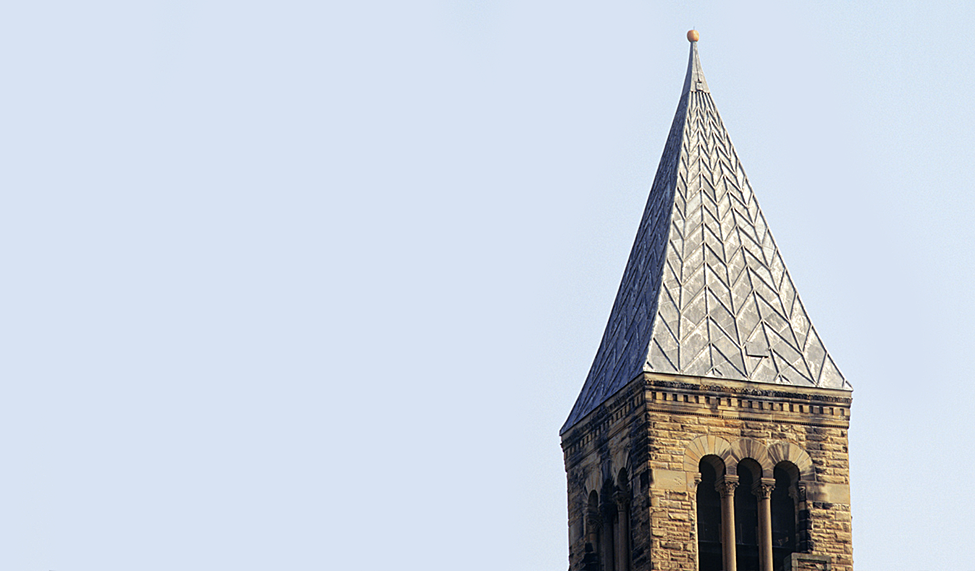
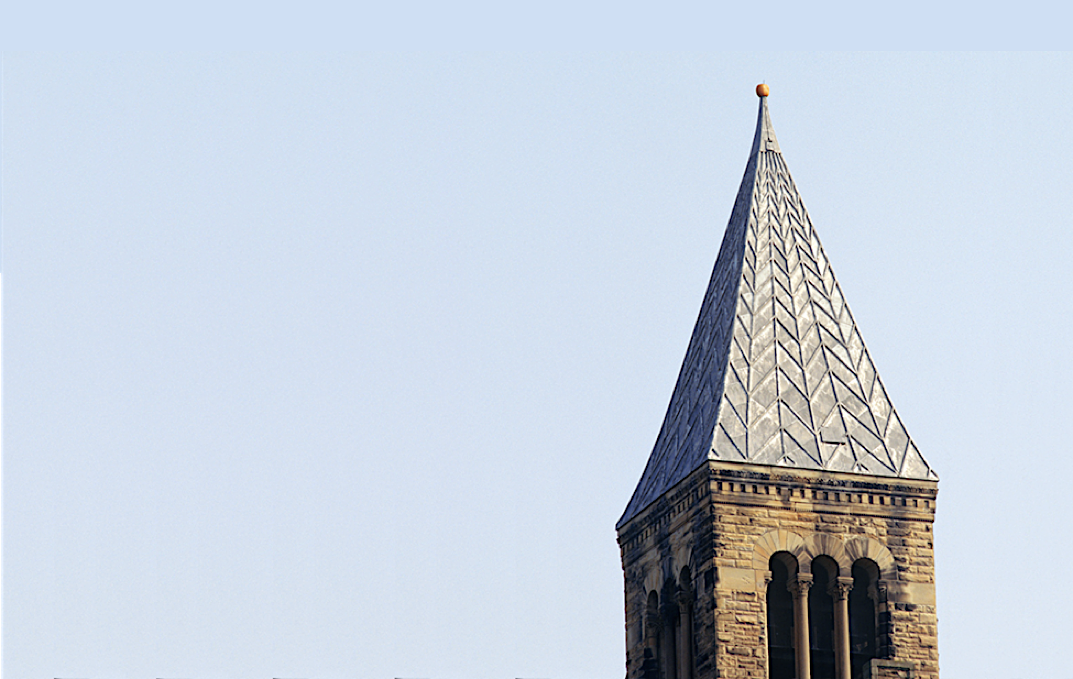
parallax effects added, sketches added

Changed region(s): [[0.5538, 0.0595, 0.8923, 1.0], [0.5846, 0.9527, 0.6154, 0.9825]]

diff --git a/index.html b/index.html
@@ -21,13 +21,17 @@
 <body>
 
 	
-</div>-->
+<!--OLD WRAPPER: WORKS
 <div class="wrapper">
 	<img id="titleimage" src="images/titleimage.png">
+</div>-->
+<!--NEW WRAPPER: PARALLAX-->
+<div class="wrapper">
+
 </div>
 
 
-<div id="content">
+<div class="content">
 	<div id="maintitle">PUMPKIN FEATURE</div>
 	<div id="byline">By Farhad Manjoo</div>
 	<p class='bodyparas'><span class='large-letter'>A</span>t first, I didn't really care about the pumpkin. No one did, not really.</p>
@@ -66,10 +70,11 @@
 
 	<img class="in-text-img" src="images/intextimages/pumpkin3.png">
 
+	<p class='bodyparas'>I believe his story, but the source didn't give me the names of pranksters, including the name of the ringleader. So the mystery is still unsolved.</p>
 
 	<div class="row quote-paragraph">
 		<div class="col-sm-8 cols">
-			<p class='pull-quote-para'>I believe his story, but the source didn't give me the names of pranksters, including the name of the ringleader. So the mystery is still unsolved.</p>
+			<p class='pull-quote-para'></p>
 			<p class='pull-quote-para'>But you know what's awesome about today, versus 1999? Exactly, viral true-crime podcasts! Remember "Serial"? I'm thinking same thing, but with the pumpkin and the tower; we can even find a way to weave Casper into the story somehow, if that will help with sponsorships.</p>
 			<p class='pull-quote-para'>Or wait, I've got a better idea. How about a viral hashtag that encourages the pranksters to confess? It's been 20 years. They pulled off the best prank Cornell has ever known. Decades later, we can finally let them take a bow for risking their lives to give us 20 years of lonely pondering. Pumpkin pranksters, tell us who you are! #PumpkinAmnesty!</p>
 		</div>
@@ -94,7 +99,11 @@
 	<p class='bodyparas'><span class="large-letter">I</span> salivated after reading this message. Seriously. Because even though dozens of jokers mail The Sun every day claiming something grand, and even though -- as editor in chief of the paper -- I'd learned to discount such conjecture, there would be no better coup for The Sun than finding the Pumpkin Prankster. And I wanted the paper to expose the fellow during my term.</p>
 
 	<p class='bodyparas'>You see, since the infamous gourd first appeared on the clock tower in the fall of 1997, The Sun has tried -- and failed -- to ascertain the identity of the prankster. The closest we or any other news organization ever got was speculation; and everyone we speculated about, from the University to certain fraternities and athletic teams, denied all involvement.</p>
+</div>
+	<div class='parallaximage' id="helicopter"></div>
+	<img class="sketch" src="images/sketches/helicopter.png">
 
+<div class='content'>
 	<p class='bodyparas'>By the fall of 1999, we were obviously no longer investigating the story. But just before Halloween, we printed a light piece recapping the two-year-old mystery, a story which, in the end, said what everyone already knew about the pumpkin: That it was destined to remain an enigma, the kind of pseudo-freakish thing that is universally understood to be beyond human comprehension, like crop circles or Kid Rock.</p>
 
 	<p class='bodyparas'><span class="large-letter">B</span>ut evidently, this light piece caught the eye of a University employee named Tom Cruise (not his real name). Indeed, it made Tom "laugh his ass off," and apparently for good reason: he knew who really did it.</p>
@@ -108,7 +117,10 @@
 	<p class='bodyparas'>He begins by describing the main characters, who I'll call Kennedy (the ringleader), Reagan and Nixon (the helpers). Kennedy was a Cornell student -- the two others were Ithacans. Tom says that Kennedy had pulled a similar prank in his hometown some years ago -- something involving a squash and a church steeple.</p>
 
 	<p class='bodyparas'>One imagines that when he came to Cornell, Kennedy saw the clock tower and knew then that he was put on God's green earth just to decorate its steeple. He probably became obsessed with this goal; and, Tom says, he began to look for a couple climbers to help him achieve it. He hung out at local outdoors-type stores, and after a while, he found his accomplices, Reagan and Nixon.</p>
-
+</div>
+	<div class='parallaximage' id="engineer"></div>
+	<img class="sketch" src="images/sketches/engineer.png">
+<div class='content'>
 	<p class='bodyparas'><span class='large-letter'>W</span>hen Tom talks about Kennedy, it's with unabashed awe; we should revere this guy, he thinks. Kennedy was brilliant, Tom says -- and do we need mention the cojones! "That night, he went up there early, when the chimesmasters were playing -- and he hid out there," Tom says.</p>
 
 	<p class='bodyparas'>Kennedy had planned the prank extensively, right down to picking the night based on anticipated wind conditions. And while he was up there, he could feel it -- this night was right.</p>
@@ -156,6 +168,10 @@
 	<p class='bodyparas'>"And the next morning was when it started for the rest of us," Tom says.</p>
 
 	<p class='bodyparas'><span class='large-letter'>O</span>n the phone, Tom Cruise sounds like a regular guy. He's maybe 35, and married, and happy -- he can't stop laughing. He works for Cornell in some office of some department, a job that he seems to enjoy but which nevertheless smacks of bureaucracy -- he has the word "technician" in his title. All of which is to say: Tom Cruise doesn't sound like the kind of guy who'd try to dupe some college students at a campus newspaper. He tells his story with surprising indifference -- he doesn't argue points, or take pains to convince me. He tells it, really, as if it's the truth.</p>
+</div>
+	<div class='parallaximage' id="rawlings"></div>
+	<img class="sketch" src="images/sketches/rawlings.png">
+<div class='content'>
 
 	<p class='bodyparas'>He says he's kept the story a secret for so long out of concern for the three fellows. After the pumpkin became a national sensation, Tom says, the three became scared of getting in deep trouble.</p>
 

diff --git a/css/style.css b/css/style.css
@@ -2,14 +2,44 @@ body{
 	
 
 }
+/* OLD WRAPPER: WORKS
 .wrapper{
 	position: relative;
 	
 	width: 100%;
-	/*background-image: url(../images/titleimage.png);
-	background-size: cover;*/
+	
 	margin-top: -1%;
 	margin-left: -1%;
+}*/
+/*NEW WRAPPER TRY OUT PARALLAX*/
+.wrapper{
+	min-height: 800px;
+	
+	
+	background-image: url(../images/titleimage.png);
+	background-attachment: fixed;
+	background-position: center;
+	background-repeat: no-repeat;
+	background-size: cover;
+	
+}
+.parallaximage{
+	min-height: 760px;
+	background-attachment: fixed;
+	background-position: center;
+	background-repeat: no-repeat;
+	background-size: cover;
+}
+#helicopter{
+
+	background-image: url(../images/sketches/helicopter.png);
+}
+#engineer{
+
+	background-image: url(../images/sketches/engineer.png);
+}
+#rawlings{
+	background-image: url(../images/sketches/rawlings.png);
 }
 .quote-paragraph{
 	margin-left: 18%;
@@ -92,15 +122,22 @@ body{
 .divider{
 	text-align: center;
 }
-
+.sketch{
+	/*margin-left: 18%;
+	width: 63%;*/
+	width: 100%;
+	height: auto;
+}
 .in-text-img{
 	margin-left: 18%;
-	width: 700px;
+	width:450px;
 	height: auto;
+	margin-top: 2%;
+	margin-right: auto;
 }
 .bodyparas{
 	margin-left: 18%;
-	margin-right: 24%;
+	margin-right: 18%;
 	margin-top: 2%;
 	font-family: 'Athelas', serif;
 	font-size: 130%;
@@ -122,8 +159,9 @@ body{
 	margin-left: 10%;
 	width: 100%;
 }
-#content{
+.content{
 	padding-top: 5%;
+	width: 90%;
 	
 }
 .caption{
@@ -149,6 +187,14 @@ a:hover{
 	color: #b04e4b;
 }
 
+@media only screen and (min-width: 651px){
+	
+	.sketch{
+		display: none;
+	}
+	
+}
+
 @media only screen and (max-width: 767px){
 	.pull-quote-para{
 		margin-left: 18%;
@@ -171,10 +217,25 @@ a:hover{
 		width: 280px;
 		height: auto;
 	}
+	.sketch{
+		margin-left: 0%;
+		margin-right: 0%;
+		width: 100%;
+		height: auto;
+	}
+	.wrapper{
+		background-position: right;
+	}
 }
 
-@media only screen and (max-width: 550px){
-	
+@media only screen and (max-width: 650px){
+	.parallaximage{
+		background-image: none;
+		display: none;
+	}
+	.sketch{
+		display: block;
+	}
 	#maintitle{
 		font-size: 220%;
 	}
